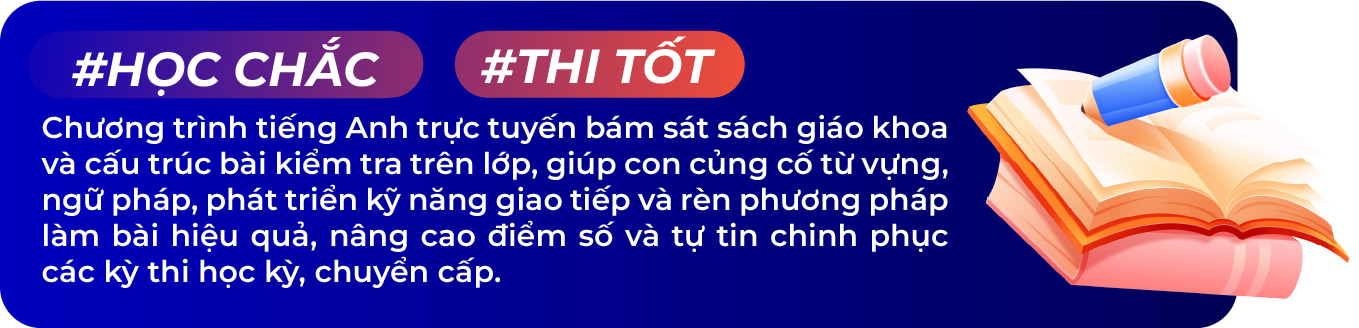
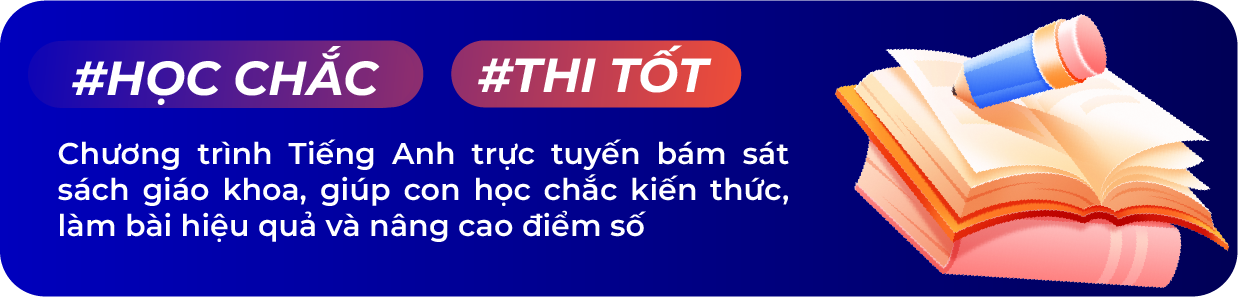
Thay ảnh card hero, nới dòng chốt S6, bỏ nhãn "Giáo viên" ở S10
Card hero
- Thay bằng file thiết kế mới khách gửi (2x/Asset 1@2x.png) với nội
  dung rút gọn: "Chương trình Tiếng Anh trực tuyến bám sát sách giáo
  khoa, giúp con học chắc kiến thức, làm bài hiệu quả và nâng cao
  điểm số".
- File gốc 1299×521 có 21.5% vùng TRONG SUỐT ở trên và dưới, 4.7% ở
  phải — thả nguyên vào thì card co lại và lệch khỏi vị trí cũ. Đã đo
  biên vùng đặc rồi cắt bằng ffmpeg còn 1238×297 (giữ kênh alpha cho
  góc bo). Tỉ lệ 4.168 so với ảnh cũ 4.143 → bố cục hero không xê
  dịch: khoảng hở logo→card vẫn 26px, card→tagline vẫn 40px.
- Cập nhật alt cho khớp nội dung ảnh mới.

Section 06
- Dòng chốt "Học chắc → Luyện đúng → Nâng điểm → Tiến bộ" đang để
  margin-top: -14px (kéo ngược lên) nên dính sát khối bên trên.
  Đổi thành +22px.

Section 10
- Bỏ nhãn "Giáo viên" dưới cả 3 thẻ +300 / +500 / +2000 (HTML + CSS).
  Subgrid rút từ 3 xuống 2 hàng theo; 3 thẻ vẫn cao bằng nhau và con
  số / dòng tên vẫn thẳng hàng.

Đo lại ở 320 / 375 / 885 / 1425 px: 0 lệch dòng, 0 tràn ngang.

diff --git a/index.html b/index.html
@@ -94,8 +94,12 @@
       <img class="hero__logo" src="assets/hero/ipass-logo.png"
            alt="iPass – Tiếng Anh dành cho học sinh lớp 3 – 9">
 
+      <!-- Ảnh phẳng xuất từ file thiết kế (2x/Asset 1@2x.png), đã cắt bỏ
+           phần trong suốt trên/dưới để khung ảnh ôm sát mép card.
+           Chữ nằm trong pixel → đổi nội dung thì phải xuất lại ảnh,
+           và sửa alt bên dưới cho khớp. -->
       <img class="hero__card" src="assets/hero/hero-card.png"
-           alt="#HỌC CHẮC #THI TỐT – Chương trình tiếng Anh trực tuyến bám sát sách giáo khoa và cấu trúc bài kiểm tra trên lớp, giúp con củng cố từ vựng, ngữ pháp, phát triển kỹ năng giao tiếp và rèn phương pháp làm bài hiệu quả, nâng cao điểm số và tự tin chinh phục các kỳ thi học kỳ, chuyển cấp.">
+           alt="#HỌC CHẮC #THI TỐT – Chương trình Tiếng Anh trực tuyến bám sát sách giáo khoa, giúp con học chắc kiến thức, làm bài hiệu quả và nâng cao điểm số.">
 
       <p class="hero__tagline">Pass hôm&nbsp;nay, Passport ngày&nbsp;mai</p>
 
@@ -676,19 +680,16 @@
       <article class="team__card team__card--1">
         <p class="team__number">+300</p>
         <h3 class="team__card-title">Giáo&nbsp;viên nước&nbsp;ngoài trình&nbsp;độ thạc&nbsp;sĩ</h3>
-        <p class="team__card-unit">Giáo viên</p>
       </article>
 
       <article class="team__card team__card--2">
         <p class="team__number">+500</p>
         <h3 class="team__card-title">Giáo&nbsp;viên Việt&nbsp;Nam trình&nbsp;độ thạc&nbsp;sĩ</h3>
-        <p class="team__card-unit">Giáo viên</p>
       </article>
 
       <article class="team__card team__card--3">
         <p class="team__number">+2000</p>
         <h3 class="team__card-title">Giáo&nbsp;viên nước&nbsp;ngoài và giáo&nbsp;viên Việt&nbsp;Nam trình&nbsp;độ cử&nbsp;nhân</h3>
-        <p class="team__card-unit">Giáo viên</p>
       </article>
 
     </div>

diff --git a/css/section10.css b/css/section10.css
@@ -54,13 +54,15 @@
 
 /* --- 3 thẻ số ---------------------------------------------------------- */
 
-/* 3 hàng chung: [con số] · [tên hạng mục] · [nhãn GIÁO VIÊN].
+/* 2 hàng chung: [con số] · [tên hạng mục]. (Nhãn "GIÁO VIÊN" dưới
+   mỗi thẻ đã bỏ theo yêu cầu.)
    Thẻ 03 có tên dài gấp đôi 2 thẻ kia nên xuống 2 dòng — subgrid cho
-   cả 3 thẻ dùng chung chiều cao hàng, nhãn dưới luôn thẳng nhau. */
+   cả 3 thẻ dùng chung chiều cao hàng, nên con số và dòng tên của cả
+   3 thẻ vẫn bắt đầu cùng một độ cao. */
 .team__grid{
   display: grid;
   grid-template-columns: repeat(3, 1fr);
-  grid-template-rows: auto auto auto;
+  grid-template-rows: auto auto;
   gap: clamp(14px, 1.6vw, 24px);
   margin-top: clamp(28px, 3.4vw, 48px);
 }
@@ -68,7 +70,7 @@
 .team__card{
   display: grid;
   grid-template-rows: subgrid;
-  grid-row: span 3;
+  grid-row: span 2;
   row-gap: 0;
   justify-items: center;
   padding: clamp(26px, 2.8vw, 40px) clamp(18px, 1.9vw, 28px) clamp(30px, 3.2vw, 46px);
@@ -103,14 +105,6 @@
   color: var(--team-navy);
 }
 
-.team__card-unit{
-  margin-top: clamp(14px, 1.5vw, 22px);
-  font-weight: 600;
-  font-size: clamp(9.5px, .8vw, 11.5px);
-  letter-spacing: .16em;
-  text-transform: uppercase;
-  color: var(--team-muted);
-}
 
 
 /* =========================================================
@@ -127,7 +121,7 @@
 }
 
 /* Trình duyệt chưa hỗ trợ subgrid: quay lại flex và giữ chỗ 2 dòng
-   cho tên hạng mục để nhãn "GIÁO VIÊN" vẫn thẳng hàng. */
+   cho tên hạng mục để 3 thẻ vẫn cao bằng nhau. */
 @supports not (grid-template-rows: subgrid){
   .team__card{
     display: flex;

diff --git a/css/section6.css b/css/section6.css
@@ -307,7 +307,9 @@
    ========================================================= */
 
 .plan__tagline{
-  margin-top: -14px;             /* chữ nhô lên phần trong suốt dưới ảnh */
+  /* Trước để -14px cho chữ nhô lên phần trong suốt dưới ảnh, nhưng
+     nhìn ra thành dính sát khối bên trên. Đẩy xuống cho thoáng. */
+  margin-top: 22px;
   font-size: 26px;
   font-weight: 800;
   line-height: 1;
